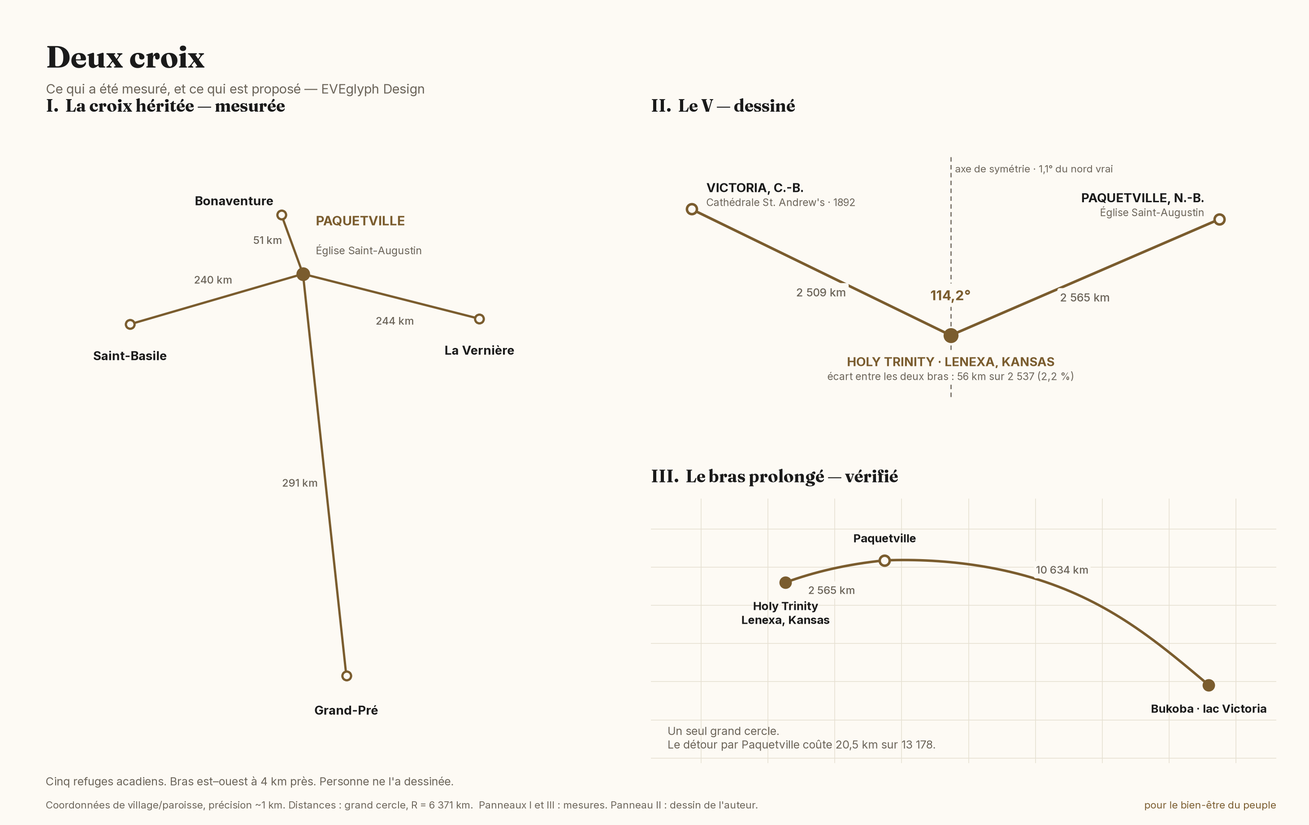
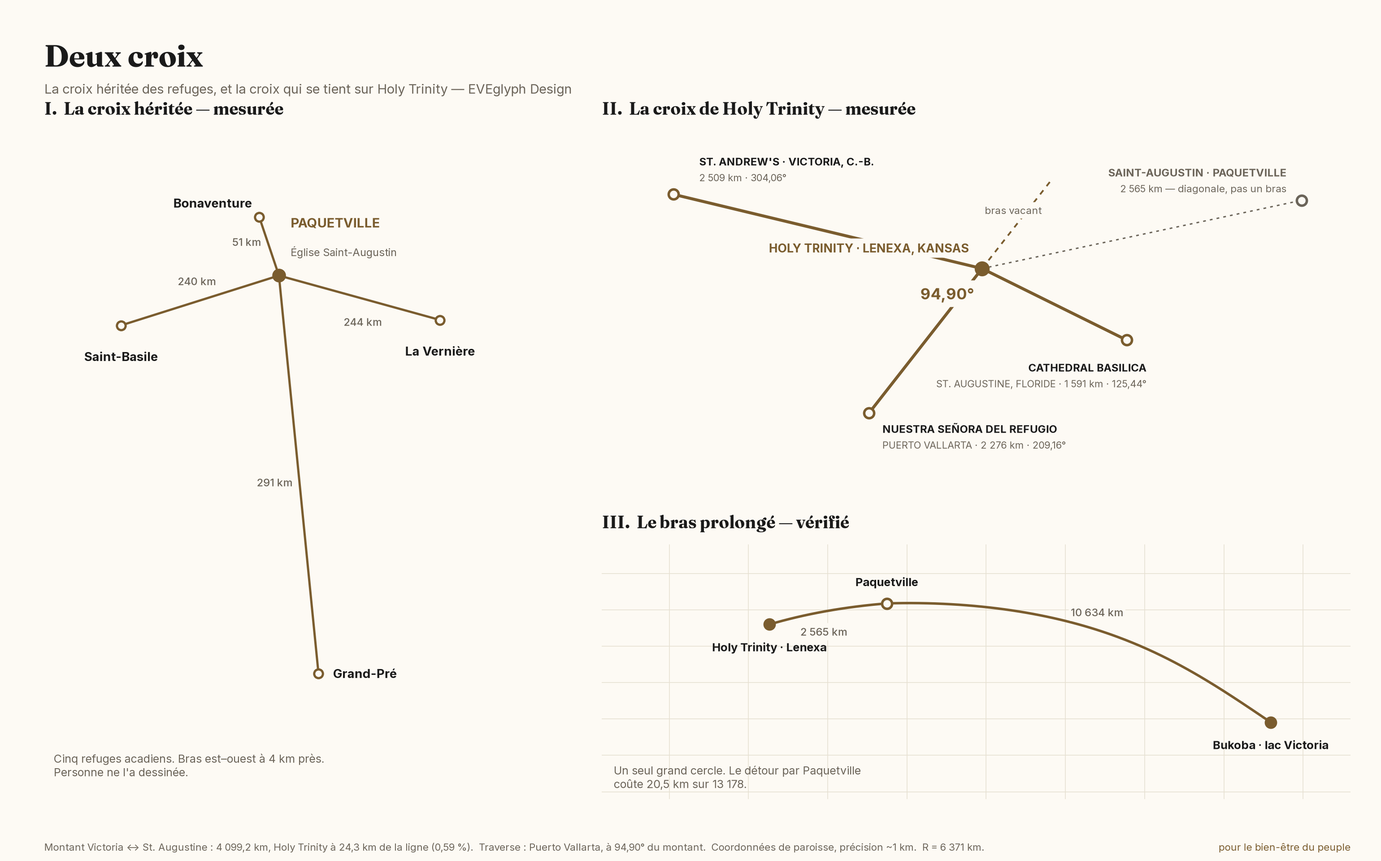
heritage: v5 — retract the V, publish the upright
Victoria BC and St. Augustine FL oppose at 178.62 deg across 4099.2 km.
Holy Trinity, Lenexa is 24.3 km off that great circle (0.59%).
Nuestra Senora del Refugio, Puerto Vallarta meets the upright at 94.90 deg.
Fourth arm vacant at 29.16 deg. Paquetville reclassified as diagonal (29.07 deg out),
retained for its shared patron, Augustine of Hippo.

Corrections 14-18 added; correction 12 superseded. Two omitted parishes recorded.

diff --git a/heritage/LIGNEE-ACADIENNE.md b/heritage/LIGNEE-ACADIENNE.md
@@ -153,7 +153,7 @@ We are not theorising about data sovereignty. We are continuing a practice.
 
 ## Deux croix / Two Crosses
 
-![Deux croix — la croix héritée des refuges acadiens, le V tracé depuis Holy Trinity, et le bras prolongé jusqu'au lac Victoria](img/deux-croix.png)
+![Deux croix — la croix héritée des refuges acadiens, la croix mesurée depuis Holy Trinity, et le bras prolongé jusqu'au lac Victoria](img/deux-croix.png)
 
 ---
 
@@ -178,23 +178,36 @@ Les deux bras diffèrent de **4 km sur 240**. La traverse Saint-Basile ↔ La Ve
 
 Saint-Martin-de-Tours à St. Martinville, en Louisiane — l'église-mère des Acadiens, fondée en 1765 ([saintmartindetours.org](https://saintmartindetours.org/about-us)) — se trouve à 2 999,2 km de Paquetville, azimut 239,1°. Elle manque le montant prolongé de **2 868,2 km**. La Louisiane n'est pas sur cette croix. Le dire est une correction, pas un jugement : la déportation a dispersé au-delà de toute figure.
 
-### III · Le V — **[A] dessin de l'auteur**
+### III · La croix de Holy Trinity — **[R] pour la géométrie, [A] pour la lecture**
 
-Ceci n'est pas une découverte. C'est un tracé. Centre : Holy Trinity, Lenexa, Kansas.
+Une version antérieure de cette page disait que la figure tracée depuis Holy Trinity était un V, un angle de 114,2° ouvert entre Victoria et Paquetville, et que Holy Trinity n'était le point d'aucune droite. C'était faux, parce que la page était incomplète : deux paroisses manquaient. Elles sont ici.
 
-| Bras | Distance | Azimut |
+Centre : Holy Trinity, Lenexa, Kansas (38,9955 N ; 94,7415 O).
+
+| Point | Distance | Azimut |
 |---|---|---|
-| Cathédrale St. Andrew's, Victoria, Colombie-Britannique | 2 508,6 km | 304,1° |
-| Église Saint-Augustin, Paquetville, Nouveau-Brunswick | 2 564,6 km | 58,2° |
+| Cathédrale St. Andrew's, Victoria, Colombie-Britannique | 2 508,6 km | 304,06° |
+| Cathedral Basilica of St. Augustine, Floride | 1 590,9 km | 125,44° |
+| Nuestra Señora del Refugio, Puerto Vallarta, Jalisco | 2 275,5 km | 209,16° |
+| Église Saint-Augustin, Paquetville, Nouveau-Brunswick | 2 564,6 km | 58,23° |
 
-Ce qui est **mesuré** : les deux bras diffèrent de **55,9 km sur une moyenne de 2 537 km — 2,2 %**. L'angle qu'ils ouvrent est de **114,2°**. Sa bissectrice porte **1,14° du nord vrai**. La figure est donc symétrique autour du méridien, à un degré près.
+**Le montant — [R].** Victoria et St. Augustine s'opposent à **178,62°**. La portée est de **4 099,2 km**, d'un océan à l'autre. Holy Trinity se tient à **24,3 km** de ce grand cercle, soit **0,59 %** de la portée. À l'échelle du continent, la paroisse est sur la ligne.
 
-Ce qui est **choisi** : les deux extrémités. Personne ne les a placées pour former cette figure.
+**La traverse — [R].** Depuis Holy Trinity, Nuestra Señora del Refugio porte 209,16°. L'angle qu'elle fait avec le bras de Victoria est de **94,90°** — à 4,90° de l'équerre. Le quatrième bras est vacant : sa position exacte serait 29,16°, et rien de nommé ne s'y trouve.
 
-**Pourquoi ces deux-là — [R] sur les faits, [A] sur la lecture.** St. Andrew's a été dessinée par les architectes montréalais Maurice Perrault et Albert Mesnard, d'après les plans d'une église paroissiale québécoise ; la soumission retenue fut celle d'Aeneas McDonald, 81 052 $ ; l'évêque Jean-Nicolas Lemmens l'a bénie le 30 octobre 1892 ([St. Andrew's Cathedral](https://www.standrewscathedral.com/history-of-the-cathedral), [thejesusquestion, notice historique](https://thejesusquestion.org/wp-content/uploads/2013/04/st-andrews-cathedral-art-victoria-bc.pdf)). Elle est lieu historique national depuis 1990 ([Parcs Canada](https://www.pc.gc.ca/apps/dfhd/page_nhs_eng.aspx?id=104)). Dans la crypte repose Mgr Modeste Demers, né à Saint-Nicolas-de-Lévis en 1809, sacré premier évêque de l'île de Vancouver le 30 novembre 1847, mort à Victoria en 1871 — architecte, arpenteur, charpentier, maçon, orfèvre, imprimeur et éditeur de son propre aveu ([Dictionnaire biographique du Canada](http://www.biographi.ca/fr/bio/demers_modeste_10E.html), [CCHA 1953](https://cchahistory.ca/journal/CCHA1953/Hill.pdf)). L'autel actuel a été taillé par l'artiste salish du littoral Charles Elliott, le lutrin par Roy Henry Vickers ([St. Andrew's Cathedral](https://standrewscathedral.com/about.html)).
+**Paquetville n'est pas un bras — [R].** Elle porte 58,23°, soit 29,07° hors de la place. Elle s'oppose à Puerto Vallarta à 150,92°, non à 180°, et Holy Trinity se tient à 634,3 km du grand cercle qui les joint. C'est une diagonale. Je l'inscris comme telle.
 
-Un plan québécois, une soumission portée par un nom des îles, des mains salish à l'autel. Trois traditions dans un seul bâtiment, sur la côte ouest. **[A]** C'est cela que je place au bout du bras ouest : non pas une conquête, un chantier partagé.
+**Mais elle porte le nom — [R].** L'église de mes ancêtres à Paquetville et la cathédrale au pied du montant sont dédiées au même saint : Augustin d'Hippone, fête le 28 août. Les Espagnols ont aperçu la terre de Floride le jour de sa fête, le 28 août 1565, et l'ont nommée pour lui ; la première messe paroissiale y fut célébrée le 8 septembre 1565 par le père Francisco López de Mendoza Grajales, ce qui en fait la plus ancienne congrégation chrétienne des États-Unis continentaux ([Cathedral Basilica of St. Augustine](https://en.wikipedia.org/wiki/Cathedral_Basilica_of_St._Augustine), [Visit St. Augustine](https://www.visitstaugustine.com/article/how-st-augustine-got-its-name)). L'église actuelle en pierre de coquina fut bâtie de 1793 à 1797 sur les plans de l'ingénieur royal Mariano de la Rocque ; cathédrale en 1870 ; lieu historique national depuis le 15 avril 1970 ; basilique mineure en 1976. À un kilomètre de là, la Mission Nombre de Dios porte une croix d'acier inoxydable de 63 mètres, 200 panneaux, 70 tonnes, dont la première pierre fut posée le 8 septembre 1965 ; une capsule scellée dans sa base doit être ouverte en 2066 ([Mission Nombre de Dios](https://missionandshrine.org/history-timeline/)).
 
+**Ce que je ne dis pas — [R].** Aucun document ne place d'Acadiens déportés à St. Augustine. La Floride était espagnole de 1565 à 1763, britannique de 1763 à 1784, espagnole de nouveau jusqu'en 1821. Environ 400 Acadiens furent débarqués en Géorgie et de 955 à 1 500 en Caroline du Sud en 1755, et beaucoup s'échappèrent vers le sud et l'ouest ([Encyclopédie canadienne](https://thecanadianencyclopedia.ca/en/article/the-deportation-of-the-acadians-feature), [acadian.org](https://www.acadian.org/history/the-deportation-orders/)) — mais le lien entre Paquetville et St. Augustine est le patron, pas la déportation. Je m'arrête là où le document s'arrête.
+
+**Puerto Vallarta — [R].** Nuestra Señora del Refugio, quartier 5 de Diciembre, chantier ouvert le 4 juillet 1960 par des paroissiens ([Travel by México](https://en.travelbymexico.com/puertovallarta/places-to-visit/?nom=kpvarefugio)). Notre-Dame du Refuge. La paroisse principale de la ville, Nuestra Señora de Guadalupe, remonte à une chapelle du 15 avril 1883 et fut érigée en paroisse le 12 octobre 1921 ; sa couronne, refaite en 2009 par Carlos Terres, porte le nom nahuatl *Tecuntlanupeuh*, « celle qui est née des rochers » ([Vallarta Mirror](https://vallartamirror.com/a-crown-for-the-empress-of-the-americas/), [puertovallarta.net](https://www.puertovallarta.net/what-to-do/our-lady-of-guadalupe-church/)).
+
+**[A]** La croix héritée est une croix de refuges. Le bras qui la traverse ici est dédié à Notre-Dame du Refuge, et il tombe à cinq degrés de l'équerre. Je n'y vois pas une preuve. J'y vois une correspondance que je n'ai pas fabriquée, et je la publie avec l'écart mesuré à côté, pour qu'on puisse la refuser.
+
+**Pourquoi Victoria — [R] sur les faits, [A] sur la lecture.** St. Andrew's a été dessinée par les architectes montréalais Maurice Perrault et Albert Mesnard, d'après les plans d'une église paroissiale québécoise ; la soumission retenue fut celle d'Aeneas McDonald, 81 052 $ ; l'évêque Jean-Nicolas Lemmens l'a bénie le 30 octobre 1892 ([St. Andrew's Cathedral](https://www.standrewscathedral.com/history-of-the-cathedral), [notice historique](https://thejesusquestion.org/wp-content/uploads/2013/04/st-andrews-cathedral-art-victoria-bc.pdf)). Lieu historique national depuis 1990 ([Parcs Canada](https://www.pc.gc.ca/apps/dfhd/page_nhs_eng.aspx?id=104)). Dans la crypte repose Mgr Modeste Demers, né à Saint-Nicolas-de-Lévis en 1809, sacré premier évêque de l'île de Vancouver le 30 novembre 1847, mort à Victoria en 1871 — architecte, arpenteur, charpentier, maçon, orfèvre, imprimeur, éditeur ([Dictionnaire biographique du Canada](http://www.biographi.ca/fr/bio/demers_modeste_10E.html), [CCHA 1953](https://cchahistory.ca/journal/CCHA1953/Hill.pdf)). L'autel a été taillé par l'artiste salish du littoral Charles Elliott, le lutrin par Roy Henry Vickers.
+
+Un plan québécois, une soumission portée par un nom des îles, des mains salish à l'autel. **[A]** C'est cela que je place au bout du montant nord : non pas une conquête, un chantier partagé.
 ### IV · Le bras prolongé — **[R]**
 
 Le bras est, continué au-delà de Paquetville, ne s'arrête pas.
@@ -212,11 +225,13 @@ Aux deux extrémités de cette portée, un même nom écrit deux fois : Victoria
 
 Je le pose avant qu'on me le reproche.
 
-1. Le V **n'est pas une croix**. 114,2°, pas 180°. Je ne prétends pas le contraire.
-2. Holy Trinity **n'est pas sur la ligne** Victoria–Paquetville : elle en est à 1 431 km, soit 33,9 % de la portée. Ce n'est pas un point d'une droite, c'est le sommet d'un angle.
-3. Bukoba est **choisie, non vécue**. Je n'y suis jamais allé. Aucune expérience familiale ne l'appuie. Elle entre ici comme intention, pas comme mémoire.
-4. Les coordonnées sont celles des villages et des paroisses, à environ 1 km près. Ce ne sont pas des portes d'église relevées au théodolite. Les distances sont des grands cercles, R = 6 371 km.
-
+1. Le montant n'est **pas parfaitement droit** : 178,62°, non 180°. Holy Trinity est à 24,3 km de la ligne. Petit à l'échelle du continent, pas nul.
+2. La traverse n'est **pas perpendiculaire** : 94,90°, non 90°. L'écart est de 4,90°.
+3. Le quatrième bras **n'existe pas**. Sa place serait à 29,16° depuis Holy Trinity. Je ne mets rien à un endroit vide.
+4. Paquetville **n'est pas un bras de cette croix**. Elle en est à 29,07°. Elle y figure comme diagonale et comme homonyme, non comme membre.
+5. Aucun **lien acadien documenté** ne rattache St. Augustine à la déportation. Le lien est le saint patron.
+6. Bukoba est **choisie, non vécue**. Je n'y suis jamais allé. Elle entre comme intention, pas comme mémoire.
+7. Les coordonnées sont celles des paroisses, à environ 1 km près. Les distances sont des grands cercles, R = 6 371 km.
 ### VI · Pourquoi je trace ceci — **[A]**
 
 La première croix, je ne l'ai pas faite. Elle est le dessin qu'ont laissé des gens qui fuyaient et qui, chaque fois qu'ils s'arrêtaient, bâtissaient une église avant de bâtir autre chose. Elle est exacte à quatre kilomètres près et personne ne l'a voulue. C'est l'Ancien Monde qui l'a imposée par la déportation, et le Nouveau qui l'a refermée par la construction.
@@ -241,19 +256,34 @@ The two arms differ by **4 km in 240**. The crossbar bears 87.2° — within 3°
 
 St. Martin of Tours, St. Martinville, Louisiana — Mother Church of the Acadians, founded 1765 — lies 2,999.2 km from Paquetville at 239.1°, and misses the extended upright by **2,868.2 km**. Louisiana is not on this cross. Saying so is a correction, not a verdict. The deportation scattered people past the reach of any figure.
 
-### III · The V — **[A] the author's drawing**
+### III · The cross at Holy Trinity — **[R] for the geometry, [A] for the reading**
 
-Not a discovery. A drawing. Centre: Holy Trinity, Lenexa, Kansas.
+An earlier version of this page called the figure a V — a 114.2° angle between Victoria and Paquetville, with Holy Trinity on no straight line at all. That was wrong, because the page was incomplete. Two parishes were missing. They are here now.
 
-- **St. Andrew's Cathedral, Victoria, British Columbia** — 2,508.6 km at 304.1°
-- **Église Saint-Augustin, Paquetville, New Brunswick** — 2,564.6 km at 58.2°
+Centre: Holy Trinity, Lenexa, Kansas (38.9955 N, 94.7415 W).
 
-**Measured:** the arms differ by **55.9 km against a mean of 2,537 km — 2.2%**. The included angle is **114.2°**. Its bisector runs **1.14° off true north**, so the figure is symmetric about the meridian to within a degree.
+| Point | Distance | Bearing |
+|---|---|---|
+| St. Andrew's Cathedral, Victoria, British Columbia | 2,508.6 km | 304.06° |
+| Cathedral Basilica of St. Augustine, Florida | 1,590.9 km | 125.44° |
+| Nuestra Señora del Refugio, Puerto Vallarta, Jalisco | 2,275.5 km | 209.16° |
+| Église Saint-Augustin, Paquetville, New Brunswick | 2,564.6 km | 58.23° |
 
-**Chosen:** the two endpoints. No one placed them to make this shape.
+**The upright — [R].** Victoria and St. Augustine oppose each other at **178.62°**. The span is **4,099.2 km**, ocean to ocean. Holy Trinity stands **24.3 km** off that great circle — **0.59%** of the span. At the scale of the continent, the parish is on the line.
 
-St. Andrew's was drawn by Montreal architects Maurice Perrault and Albert Mesnard from a Quebec parish plan, built on the winning tender of Aeneas McDonald at $81,052, and blessed by Bishop Jean-Nicolas Lemmens on 30 October 1892; National Historic Site since 1990. In the crypt lies Bishop Modeste Demers — first Bishop of Vancouver Island, consecrated 30 November 1847, died Victoria 1871 — recorded as architect, surveyor, carpenter, mason, silversmith, printer and editor. The present altar was carved by Coast Salish artist Charles Elliott, the lectern by Roy Henry Vickers. A Quebec drawing, an islander's contract, Salish hands at the altar. **[A]** That is what I put at the end of the west arm: not a conquest, a shared worksite.
+**The crossbar — [R].** From Holy Trinity, Nuestra Señora del Refugio bears 209.16°. Its angle to the Victoria arm is **94.90°** — 4.90° off square. The fourth arm is vacant: it would sit at 29.16°, and nothing named stands there.
 
+**Paquetville is not an arm — [R].** It bears 58.23°, 29.07° out of place. It opposes Puerto Vallarta at 150.92°, not 180°, and Holy Trinity lies 634.3 km off the great circle joining them. It is a diagonal, and it is recorded as one.
+
+**But it carries the name — [R].** My ancestors' church at Paquetville and the cathedral at the foot of the upright are dedicated to the same saint: Augustine of Hippo, feast 28 August. The Spanish sighted Florida on his feast day, 28 August 1565, and named the place for him; the first parish Mass was said there on 8 September 1565 by Father Francisco López de Mendoza Grajales, making it the oldest Christian congregation in the contiguous United States ([Cathedral Basilica of St. Augustine](https://en.wikipedia.org/wiki/Cathedral_Basilica_of_St._Augustine), [Visit St. Augustine](https://www.visitstaugustine.com/article/how-st-augustine-got-its-name)). The present coquina-stone church was built 1793–1797 to plans by royal engineer Mariano de la Rocque; cathedral in 1870; National Historic Landmark 15 April 1970; minor basilica 1976. A kilometre away, Mission Nombre de Dios carries a 208-foot stainless steel cross of 200 panels and 70 tons, its cornerstone laid 8 September 1965, with a sealed capsule in the base to be opened in 2066 ([Mission Nombre de Dios](https://missionandshrine.org/history-timeline/)).
+
+**What I do not say — [R].** No document places deported Acadians at St. Augustine. Florida was Spanish 1565–1763, British 1763–1784, Spanish again to 1821. Roughly 400 Acadians were landed in Georgia and 955 to 1,500 in South Carolina in 1755, and many escaped south and west ([Canadian Encyclopedia](https://thecanadianencyclopedia.ca/en/article/the-deportation-of-the-acadians-feature), [acadian.org](https://www.acadian.org/history/the-deportation-orders/)) — but the link between Paquetville and St. Augustine is the patron saint, not the deportation. I stop where the document stops.
+
+**Puerto Vallarta — [R].** Nuestra Señora del Refugio, in the 5 de Diciembre neighbourhood, was begun on 4 July 1960 by parishioners ([Travel by México](https://en.travelbymexico.com/puertovallarta/places-to-visit/?nom=kpvarefugio)). Our Lady of Refuge. The town's principal parish, Nuestra Señora de Guadalupe, descends from a chapel of 15 April 1883 and was erected as a parish on 12 October 1921; its crown, remade in 2009 by Carlos Terres, carries the Nahuatl name *Tecuntlanupeuh*, "she who came from the rocks" ([Vallarta Mirror](https://vallartamirror.com/a-crown-for-the-empress-of-the-americas/), [puertovallarta.net](https://www.puertovallarta.net/what-to-do/our-lady-of-guadalupe-church/)).
+
+**[A]** The inherited cross is a cross of refuges. The arm that crosses this one is dedicated to Our Lady of Refuge, and it falls five degrees off square. I do not call that proof. I call it a correspondence I did not manufacture, and I publish the error term beside it so it can be refused.
+
+**Why Victoria — [R] on the facts, [A] on the reading.** St. Andrew's was drawn by Montreal architects Maurice Perrault and Albert Mesnard from a Quebec parish plan, built on the winning tender of Aeneas McDonald at $81,052, and blessed by Bishop Jean-Nicolas Lemmens on 30 October 1892; National Historic Site since 1990. In the crypt lies Bishop Modeste Demers — first Bishop of Vancouver Island, consecrated 30 November 1847, died Victoria 1871 — recorded as architect, surveyor, carpenter, mason, silversmith, printer and editor. The altar was carved by Coast Salish artist Charles Elliott, the lectern by Roy Henry Vickers. A Quebec drawing, an islander's contract, Salish hands at the altar. **[A]** That is what I put at the head of the upright: not a conquest, a shared worksite.
 ### IV · The arm extended — **[R]**
 
 Holy Trinity → Paquetville, 2,564.6 km. Paquetville → Bukoba on Lake Victoria, 10,634.2 km. Sum 13,198.7 km against a direct line of 13,178.2 km — an excess of **20.5 km in 13,178, or 0.156%**. The three points sit on one great circle; Paquetville is 340 km off the direct line across a reach of more than thirteen thousand kilometres.
@@ -262,11 +292,13 @@ At either end of that reach, the same name written twice: Victoria in British Co
 
 ### V · What is not proven — **[R]**
 
-1. The V **is not a cross**. 114.2°, not 180°.
-2. Holy Trinity **is not on the line** between Victoria and Paquetville. It is 1,431 km off it — 33.9% of the span. It is the apex of an angle, not a point on a straight line.
-3. Bukoba is **chosen, not lived**. I have never been to Tanzania. No family experience supports it. It enters as intent, not as memory.
-4. Coordinates are village and parish points, good to about 1 km — not surveyed church doors. Distances are great-circle, R = 6,371 km.
-
+1. The upright is **not perfectly straight**: 178.62°, not 180°. Holy Trinity is 24.3 km off the line. Small at continental scale, not zero.
+2. The crossbar is **not perpendicular**: 94.90°, not 90°. The error is 4.90°.
+3. The fourth arm **does not exist**. Its place would be 29.16° from Holy Trinity. I do not put anything in an empty spot.
+4. Paquetville **is not an arm of this cross**. It is 29.07° out. It appears as a diagonal and as a namesake, not as a member.
+5. There is **no documented Acadian link** between St. Augustine and the deportation. The link is the patron saint.
+6. Bukoba is **chosen, not lived**. I have never been to Tanzania. It enters as intent, not as memory.
+7. Coordinates are parish points, good to about 1 km. Distances are great-circle, R = 6,371 km.
 ### VI · Why I draw this — **[A]**
 
 The first cross I did not make. It is the figure left by people who ran, and who each time they stopped built a church before they built anything else. It is accurate to four kilometres and nobody intended it. The Old World imposed it by deportation; the New World closed it by building.
@@ -304,13 +336,21 @@ I am delivering it in a children's game. That is deliberate. What you want to la
 12. **One claim declined.** An earlier draft proposed a four-armed cross centred on Holy Trinity. It does not exist. Victoria and Paquetville stand 114.2° apart, not 180°, and Holy Trinity lies 1 431 km off the great circle joining them. The figure is an angle, and it is published as an angle.
 13. **Bishop Demers' trades.** Listed as recorded by the Canadian Catholic Historical Association in 1953 — architect, surveyor, carpenter, mason, silversmith, printer, editor. Included because it is documented, not because it is convenient.
 
+**v4 → v5, 25 July 2026.**
+
+14. **The V is retracted.** v4 published the figure at Holy Trinity as a 114.2° angle between Victoria and Paquetville and stated that Holy Trinity lay on no straight line. That statement is withdrawn. With St. Augustine, Florida included, Victoria and St. Augustine oppose each other at **178.62°** across 4,099.2 km, and Holy Trinity stands **24.3 km** off that line — 0.59% of the span. It is an upright, and the parish is standing on it.
+15. **Two parishes had been omitted.** St. Augustine, Florida, and the parishes of Puerto Vallarta were left out of v4. They were left out because the author had not yet named them and no one went looking. He named them, and the omission changed the answer. The omission is recorded here rather than quietly fixed.
+16. **Puerto Vallarta tested and placed.** Tested first as the arm opposite Paquetville: **negative** — the predicted point falls in open Pacific off Baja at 24.750 N, 116.257 W, and Paquetville opposes Puerto Vallarta at only 150.92°. Tested against the upright: **94.90°**, within 4.90° of square. It is the crossbar, not the counterweight.
+17. **Paquetville reclassified.** It is not an arm of the new cross. It is 29.07° out of position. It is retained on the figure as a diagonal, drawn dotted, and labelled as such — and it is retained in the text because it shares its patron, Augustine of Hippo, with the parish at the foot of the upright.
+18. **Correction #12 superseded.** It said a four-armed cross centred on Holy Trinity "does not exist." Three of the four arms do. The fourth is vacant and is drawn vacant.
+
 Anyone may challenge a claim on this page. A claim that cannot be marked **[R]** or defended as **[I]** comes off it. A claim marked **[A]** is one man's reading and is labelled as such.
 
 ---
 
 ## Sources
 
-[Canadian-American Center, University of Maine — Champlain and the Settlement of Acadia 1604-1607](https://umaine.edu/canam/champlain-and-the-settlement-of-acadia-1604-1607/) · [Sentier Acadie historique — Registres](https://sentieracadie.ca/fr/ancetres-acadiens/registres) · [Nova Scotia Archives — An Acadian Parish Remembered: the Registers of St. Jean-Baptiste, Annapolis Royal, 1702-1755](https://archives.novascotia.ca/acadian/background/) · [Centre acadien, Université Sainte-Anne — Registres de Saint-Jean-Baptiste de Port-Royal](https://www.usainteanne.ca/centre-acadien/a-consulter-en-ligne/registres-de-saint-jean-baptiste-de-port-royal) · [Matteo Binasco, The Troubled Activity of the Roman Catholic Missionaries in Acadia, Saint Mary's University](https://www.smu.ca/webfiles/binasco-catholicmissionariesinacadia-2007.pdf) · [Stephen A. White on surviving registers, via Acadian-Cajun Genealogy](https://freepages.rootsweb.com/~acadiancajun/genealogy/religion.htm) · [Bona Arsenault account, Terriot Acadian Family](https://terriau.org/arsenaul.htm) · [Acadian Historical Timeline — the Saint-Jehan, 1636](https://www.acadian.org/history/acadian-historical-timeline/) · [1671 Port-Royal census transcription](https://www.wikitree.com/wiki/Th%C3%A9riot-99) · [Parks Canada — History of Grand-Pré](https://parks.canada.ca/lhn-nhs/ns/grandpre/culture/histoire-history) · [UNESCO WHC — Landscape of Grand Pré, ID 1404](https://whc.unesco.org/en/list/1404/) · [Diocese of Baton Rouge — St. Gabriel the Archangel](https://diobr.org/st-gabriel-the-archangel-st-gabriel) · [Library of Congress HABS — Old St. Gabriel Church](https://www.loc.gov/pictures/item/la0339/) · [St. Martin de Tours — parish history](https://saintmartindetours.org/full-history) · [Chemins de la francophonie — St. Gabriel](https://acadie.cheminsdelafrancophonie.org/en/st-gabriel/) · [Parks Canada — Fort La Tour National Historic Site](https://www.pc.gc.ca/apps/dfhd/page_nhs_eng.aspx?id=201) · [Guerre civile acadienne](https://fr.wikipedia.org/wiki/Guerre_civile_acadienne) · [Historical Marker Database — La Tour and d'Aulnay](https://www.hmdb.org/m.asp?m=141988) · [Peace of Utrecht](https://en.wikipedia.org/wiki/Peace_of_Utrecht) · [Centre d'études acadiennes, Université de Moncton](http://cfml.ci.umoncton.ca/cea/documts/notices/htm.cfm?ret=ed3&ident=T0065) · [BCcampus — Canadian History: Pre-Confederation, Acadia 1713-1755](https://opentextbc.ca/preconfederation/chapter/6-10-acadia-1713-1755/) · [Église de Saint-Bonaventure — Patrimoine culturel du Québec](https://www.patrimoine-culturel.gouv.qc.ca/rpcq/detail.do?methode=consulter&id=93374&type=bien) · [Diocèse d'Edmundston — Saint-Basile](https://www.diocese-edmundston.ca/fr/zp_st-basile.html) · [Acadiensis — les 31 croix de Saint-Basile](https://www.erudit.org/fr/revues/acadiensis/2016-v45-n2-acad_45_2/acad45_2rn03/) · [Musée acadien du Québec — Îles-de-la-Madeleine](https://museeacadien.com/iles-de-la-madeleine/) · [Lieux patrimoniaux — Église Saint-Pierre-de-La Vernière](https://www.historicplaces.ca/fr/rep-reg/place-lieu.aspx?id=11999&pid=0) · [Parcs Canada — l'Église-souvenir de Grand-Pré](https://parcs.canada.ca/lhn-nhs/ns/grandpre/culture/eglise-church) · [CEAAC, Université de Moncton — archives religieuses](https://www.umoncton.ca/umcm-ceaac/files/umcm-ceaac/wf/wf/pdf4/f1582-1archreli.pdf) · [UQTR — les Acadiens réfugiés en Gaspésie](https://depot-e.uqtr.ca/id/eprint/8497/1/032072632.pdf) · [St. Martin de Tours — about](https://saintmartindetours.org/about-us) · [St. Andrew's Cathedral, Victoria — history](https://www.standrewscathedral.com/history-of-the-cathedral) · [St. Andrew's Cathedral — history, altar and windows](https://thejesusquestion.org/wp-content/uploads/2013/04/st-andrews-cathedral-art-victoria-bc.pdf) · [Parks Canada — St. Andrew's Roman Catholic Cathedral National Historic Site](https://www.pc.gc.ca/apps/dfhd/page_nhs_eng.aspx?id=104) · [HistoricPlaces.ca — St. Andrew's Cathedral](https://www.historicplaces.ca/en/rep-reg/place-lieu.aspx?id=1472) · [Dictionnaire biographique du Canada — Modeste Demers](http://www.biographi.ca/fr/bio/demers_modeste_10E.html) · [CCHA 1953 — The Most Reverend Modeste Demers, First Bishop of Vancouver Island](https://cchahistory.ca/journal/CCHA1953/Hill.pdf) · [Diocese of Victoria in Canada](https://en.wikipedia.org/wiki/Diocese_of_Victoria_in_Canada)
+[Canadian-American Center, University of Maine — Champlain and the Settlement of Acadia 1604-1607](https://umaine.edu/canam/champlain-and-the-settlement-of-acadia-1604-1607/) · [Sentier Acadie historique — Registres](https://sentieracadie.ca/fr/ancetres-acadiens/registres) · [Nova Scotia Archives — An Acadian Parish Remembered: the Registers of St. Jean-Baptiste, Annapolis Royal, 1702-1755](https://archives.novascotia.ca/acadian/background/) · [Centre acadien, Université Sainte-Anne — Registres de Saint-Jean-Baptiste de Port-Royal](https://www.usainteanne.ca/centre-acadien/a-consulter-en-ligne/registres-de-saint-jean-baptiste-de-port-royal) · [Matteo Binasco, The Troubled Activity of the Roman Catholic Missionaries in Acadia, Saint Mary's University](https://www.smu.ca/webfiles/binasco-catholicmissionariesinacadia-2007.pdf) · [Stephen A. White on surviving registers, via Acadian-Cajun Genealogy](https://freepages.rootsweb.com/~acadiancajun/genealogy/religion.htm) · [Bona Arsenault account, Terriot Acadian Family](https://terriau.org/arsenaul.htm) · [Acadian Historical Timeline — the Saint-Jehan, 1636](https://www.acadian.org/history/acadian-historical-timeline/) · [1671 Port-Royal census transcription](https://www.wikitree.com/wiki/Th%C3%A9riot-99) · [Parks Canada — History of Grand-Pré](https://parks.canada.ca/lhn-nhs/ns/grandpre/culture/histoire-history) · [UNESCO WHC — Landscape of Grand Pré, ID 1404](https://whc.unesco.org/en/list/1404/) · [Diocese of Baton Rouge — St. Gabriel the Archangel](https://diobr.org/st-gabriel-the-archangel-st-gabriel) · [Library of Congress HABS — Old St. Gabriel Church](https://www.loc.gov/pictures/item/la0339/) · [St. Martin de Tours — parish history](https://saintmartindetours.org/full-history) · [Chemins de la francophonie — St. Gabriel](https://acadie.cheminsdelafrancophonie.org/en/st-gabriel/) · [Parks Canada — Fort La Tour National Historic Site](https://www.pc.gc.ca/apps/dfhd/page_nhs_eng.aspx?id=201) · [Guerre civile acadienne](https://fr.wikipedia.org/wiki/Guerre_civile_acadienne) · [Historical Marker Database — La Tour and d'Aulnay](https://www.hmdb.org/m.asp?m=141988) · [Peace of Utrecht](https://en.wikipedia.org/wiki/Peace_of_Utrecht) · [Centre d'études acadiennes, Université de Moncton](http://cfml.ci.umoncton.ca/cea/documts/notices/htm.cfm?ret=ed3&ident=T0065) · [BCcampus — Canadian History: Pre-Confederation, Acadia 1713-1755](https://opentextbc.ca/preconfederation/chapter/6-10-acadia-1713-1755/) · [Église de Saint-Bonaventure — Patrimoine culturel du Québec](https://www.patrimoine-culturel.gouv.qc.ca/rpcq/detail.do?methode=consulter&id=93374&type=bien) · [Diocèse d'Edmundston — Saint-Basile](https://www.diocese-edmundston.ca/fr/zp_st-basile.html) · [Acadiensis — les 31 croix de Saint-Basile](https://www.erudit.org/fr/revues/acadiensis/2016-v45-n2-acad_45_2/acad45_2rn03/) · [Musée acadien du Québec — Îles-de-la-Madeleine](https://museeacadien.com/iles-de-la-madeleine/) · [Lieux patrimoniaux — Église Saint-Pierre-de-La Vernière](https://www.historicplaces.ca/fr/rep-reg/place-lieu.aspx?id=11999&pid=0) · [Parcs Canada — l'Église-souvenir de Grand-Pré](https://parcs.canada.ca/lhn-nhs/ns/grandpre/culture/eglise-church) · [CEAAC, Université de Moncton — archives religieuses](https://www.umoncton.ca/umcm-ceaac/files/umcm-ceaac/wf/wf/pdf4/f1582-1archreli.pdf) · [UQTR — les Acadiens réfugiés en Gaspésie](https://depot-e.uqtr.ca/id/eprint/8497/1/032072632.pdf) · [St. Martin de Tours — about](https://saintmartindetours.org/about-us) · [St. Andrew's Cathedral, Victoria — history](https://www.standrewscathedral.com/history-of-the-cathedral) · [St. Andrew's Cathedral — history, altar and windows](https://thejesusquestion.org/wp-content/uploads/2013/04/st-andrews-cathedral-art-victoria-bc.pdf) · [Parks Canada — St. Andrew's Roman Catholic Cathedral National Historic Site](https://www.pc.gc.ca/apps/dfhd/page_nhs_eng.aspx?id=104) · [HistoricPlaces.ca — St. Andrew's Cathedral](https://www.historicplaces.ca/en/rep-reg/place-lieu.aspx?id=1472) · [Dictionnaire biographique du Canada — Modeste Demers](http://www.biographi.ca/fr/bio/demers_modeste_10E.html) · [CCHA 1953 — The Most Reverend Modeste Demers, First Bishop of Vancouver Island](https://cchahistory.ca/journal/CCHA1953/Hill.pdf) · [Diocese of Victoria in Canada](https://en.wikipedia.org/wiki/Diocese_of_Victoria_in_Canada) · [Cathedral Basilica of St. Augustine](https://en.wikipedia.org/wiki/Cathedral_Basilica_of_St._Augustine) · [Visit St. Augustine — how the city was named](https://www.visitstaugustine.com/article/how-st-augustine-got-its-name) · [Mission Nombre de Dios — history timeline](https://missionandshrine.org/history-timeline/) · [Our Lady Star of the Sea, Ponte Vedra Beach — parish history](https://olsspvb.org/parish-history) · [Travel by México — Parroquia de Nuestra Señora del Refugio, Puerto Vallarta](https://en.travelbymexico.com/puertovallarta/places-to-visit/?nom=kpvarefugio) · [Vallarta Mirror — A Crown for the Empress of the Americas](https://vallartamirror.com/a-crown-for-the-empress-of-the-americas/) · [puertovallarta.net — Parish of Our Lady of Guadalupe](https://www.puertovallarta.net/what-to-do/our-lady-of-guadalupe-church/) · [The Canadian Encyclopedia — the Deportation of the Acadians](https://thecanadianencyclopedia.ca/en/article/the-deportation-of-the-acadians-feature) · [acadian.org — the deportation orders](https://www.acadian.org/history/the-deportation-orders/)
 
 ---
 
